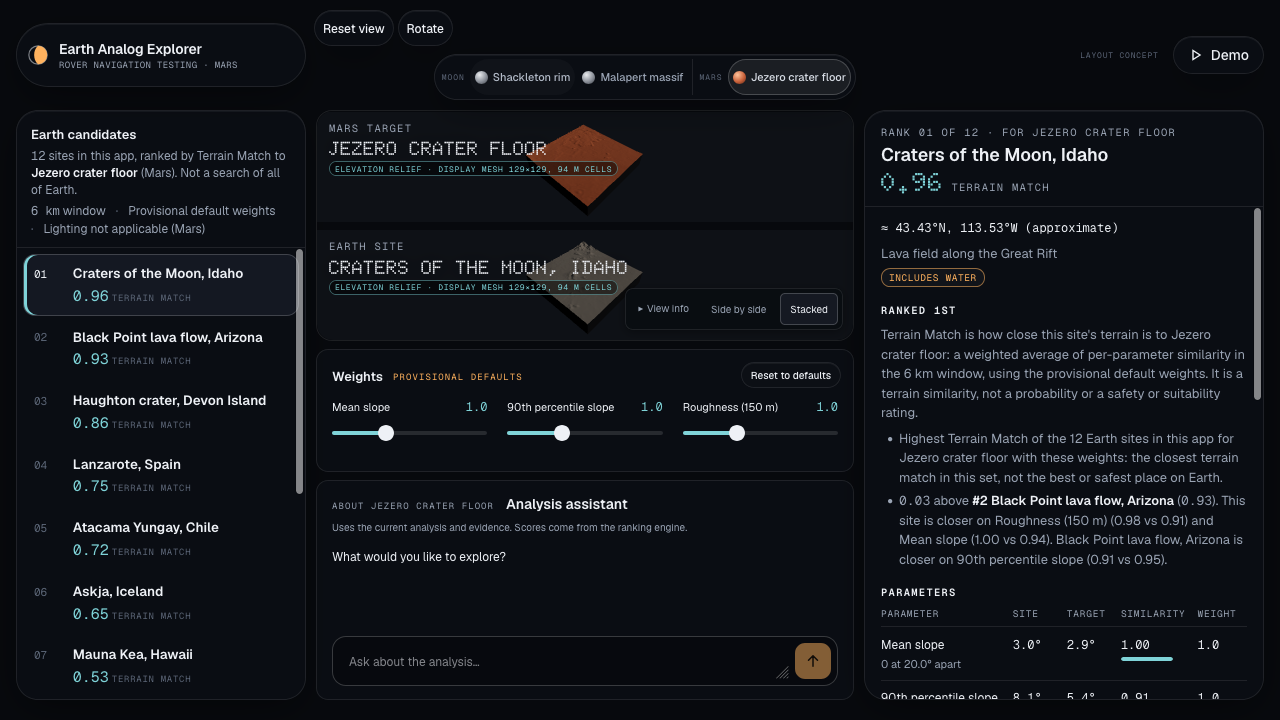
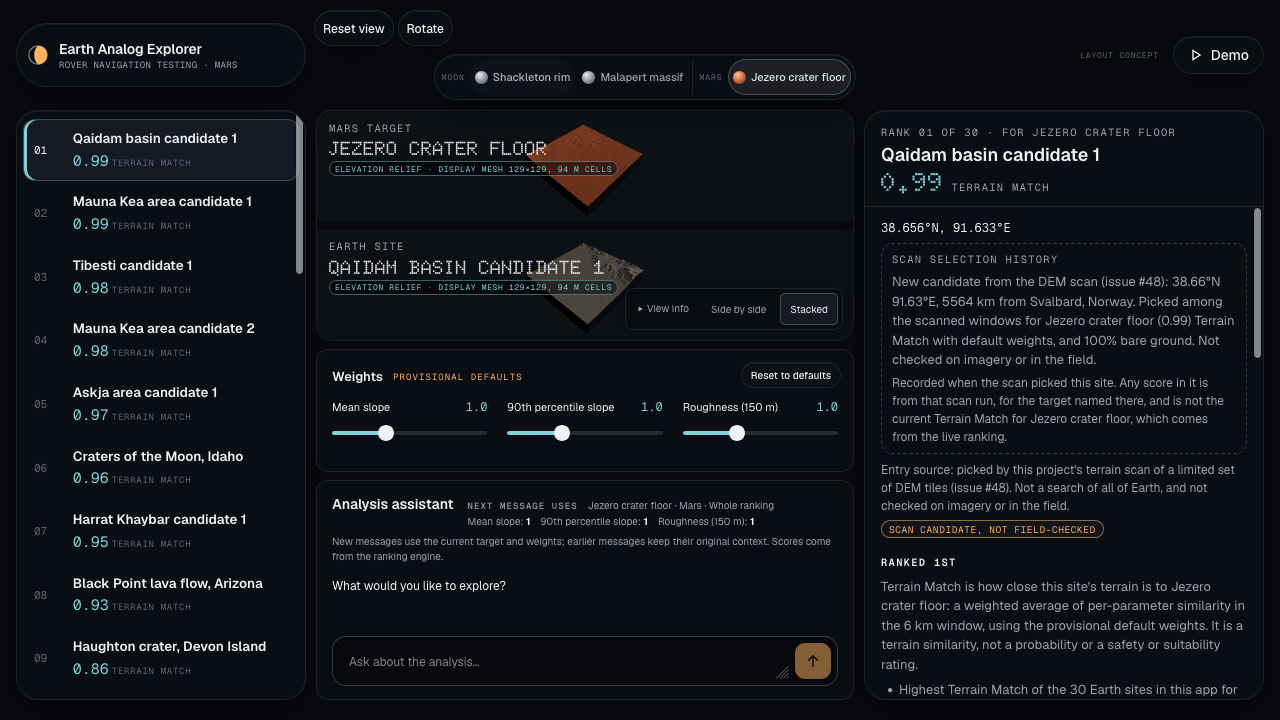
Refresh studio concept evidence from current-main preview
Refs #47. Link the main-based 30-site review snapshot, replace selected screenshots, and describe compact assistant context plus retained chat/drafts across target changes. Explicitly retain the offline-AI and production-API limitations.

diff --git a/docs/mockups/README.md b/docs/mockups/README.md
@@ -6,15 +6,17 @@ the proposed layout has been accepted for implementation.
 
 ## Screenshots
 
-These captures show the interactive concept on the archived preview branch. The
-app-source baseline is [`a1c6548`](https://github.com/azrialahmad/earth-analog-explorer/commit/a1c65489d525281f53cb98e0ce19787356703e4d)
-(#39/#40), before the SPICE-derived target-lighting update in #43/#44. In
-particular, the Moon lighting value/source visible in the first capture is from
-that older baseline, not current `main` data.
+These Firefox 160 captures use the refreshed, main-based review preview:
+app-source/data baseline [`e305c6a`](https://github.com/azrialahmad/earth-analog-explorer/commit/e305c6acb259c3ee437d95d4f7073775c6ca59aa),
+with preview code at [`1357069`](https://github.com/azrialahmad/earth-analog-explorer/commit/13570691ea54ca40a2b8211b3cab4099f95c972b).
+That baseline contains 30 Earth sites and the target-lighting data shipped at
+that revision. These replace the earlier captures of the 12-site, pre-#43/#44
+preview; the older artifact is preserved separately below. This is a pinned
+snapshot, not a promise that its values track later `main` changes.
 
 ### Desktop · 1512 × 780 · Moon / Shackleton rim
 
-![Desktop studio concept with the ranked Earth list at left, Moon and Earth terrain views with weights and analysis assistant in the center, and selected-site details at right. App-source baseline a1c6548; Moon lighting data predates #43/#44.](screenshots/studio-desktop-1512x780.png)
+![Desktop studio concept with ranked Earth candidates at left, Moon and Earth terrain views, weights and compact assistant context in the center, and selected-site details at right. App/data baseline e305c6a, 30 sites; preview 1357069.](screenshots/studio-desktop-1512x780.png)
 
 The ranked list, paired terrain views, persistent weights, assistant, and selected
 site details are visible together. The ranking is scoped to the configured sites
@@ -22,11 +24,36 @@ in that app revision, not a search of all Earth.
 
 ### Compact desktop · 1280 × 720 · Mars / Jezero crater floor
 
-![Compact desktop studio concept for Jezero crater floor, with ranked Earth candidates at left, stacked terrain views, weights and assistant in the center, and site details at right. App-source baseline a1c6548.](screenshots/studio-desktop-1280x720.png)
+![Compact desktop studio concept for Jezero crater floor, with ranked Earth candidates at left, stacked terrain views, weights and assistant in the center, and site details at right. App/data baseline e305c6a, 30 sites; preview 1357069.](screenshots/studio-desktop-1280x720.png)
 
 ### Mobile · 390 × 844 · narrow workbench
 
-![Narrow mobile studio concept showing the view panel, terrain arrangement controls, weights and analysis assistant. App-source baseline a1c6548.](screenshots/studio-mobile-390x844.png)
+![Mobile View pane scrolled to show weights and the analysis assistant, including its compact next-message context and composer. App/data baseline e305c6a, 30 sites; preview 1357069.](screenshots/studio-mobile-390x844.png)
+
+The View pane is deliberately scrolled down in this capture; the terrain views
+remain above it. The full center pane is not expected to fit on one mobile screen.
+
+## Changes demonstrated in the refreshed preview
+
+- The real app components and data now come from the main-source baseline above,
+  rather than the older 12-site snapshot. No scientific data or scores were edited
+  for this concept.
+- **Next message uses** is small, unboxed, and beside **Analysis assistant**.
+  The target, body, whole-ranking scope, and full-precision weight values wrap
+  without covering the chat or composer.
+- Changing target keeps the visible chat, historical turns, and unsent draft.
+  Earlier messages retain their own target/weight snapshots; the next Send uses
+  the current completed analysis. A context-boundary note is added at that Send,
+  not on every target click or slider movement. Reloading is not persistence.
+- Context changes still cancel pending requests and invalidate stale replies or
+  rerun tools, including after returning A → B → A.
+
+These are preview interactions, not shipped production changes. The assistant
+transport remains offline. The production API still rejects mixed-target
+history; the requested follow-up is recorded in
+[#50](https://github.com/azrialahmad/earth-analog-explorer/issues/50#issuecomment-6895287232).
+The screenshots themselves do not demonstrate successful AI answers or request
+synchronization.
 
 ## Concept and limitations
 
@@ -34,7 +61,7 @@ in that app revision, not a search of all Earth.
   stay on the right. The center groups terrain views, weights, and the analysis
   assistant.
 - On narrow screens, the app's existing Sites / View / Details navigation is
-  used; the capture shows the View pane.
+  used; the capture shows the View pane scrolled to the assistant.
 - The concept hides the existing Data and Evidence toolbar entry points without
   completing their migration. That is an acknowledged gap, not a production
   recommendation.
@@ -49,18 +76,28 @@ in that app revision, not a search of all Earth.
 
 ## Interactive review artifact
 
-The executable preview and its tests are preserved on the
-[`studio-layout-mockup-archive` branch](https://github.com/azrialahmad/earth-analog-explorer/tree/studio-layout-mockup-archive),
-from snapshot commit [`9ccfcf7`](https://github.com/azrialahmad/earth-analog-explorer/commit/9ccfcf70564610b92ee897ec6c8999dcbfed8bc7).
-That branch is a frozen review artifact, not a supported or continuously updated
-demo. To inspect it with the repository's existing frontend dependencies:
+The refreshed executable preview and its tests are preserved on the review-only
+[`47-main-studio-preview` branch](https://github.com/azrialahmad/earth-analog-explorer/tree/47-main-studio-preview),
+pinned above at `1357069`. Its
+[README](https://github.com/azrialahmad/earth-analog-explorer/blob/13570691ea54ca40a2b8211b3cab4099f95c972b/docs/mockups/studio-layout/README.md)
+records run instructions, limitations, and checks. From a clean checkout with
+the repository's frontend dependencies already installed:
 
 ```sh
-git switch studio-layout-mockup-archive
-cd frontend
-node ../docs/mockups/studio-layout/serve.mjs
+git fetch origin 47-main-studio-preview
+git switch --detach 13570691ea54ca40a2b8211b3cab4099f95c972b
+node docs/mockups/studio-layout/serve.mjs
 ```
 
-Then open `http://localhost:4177/earth-analog-explorer/`. The mockup branch does
-not authorize production UI changes. Any production implementation needs a
-separate issue and review by the frontend owner.
+Then open `http://localhost:4178/earth-analog-explorer/`.
+
+The original 12-site artifact remains unchanged on
+[`studio-layout-mockup-archive`](https://github.com/azrialahmad/earth-analog-explorer/tree/studio-layout-mockup-archive),
+from source snapshot [`9ccfcf7`](https://github.com/azrialahmad/earth-analog-explorer/commit/9ccfcf70564610b92ee897ec6c8999dcbfed8bc7)
+and app baseline `a1c6548` (before #43/#44). Its old Moon-lighting values are not
+the data shown in the refreshed captures above.
+
+Both branches are revision-specific review artifacts, not supported demos. Only
+this documentation and selected screenshots belong in the `main` deliverable.
+Neither mockup approval nor this documentation authorizes production UI or API
+changes; those require a separate scoped issue and frontend-owner review.
